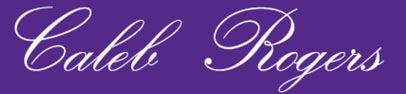
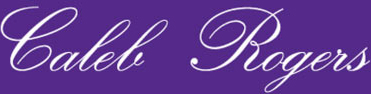
aces

Changed region(s): [[0.504, 0.0638, 1.0, 1.0], [0.0, 0.0638, 0.4744, 0.766]]

diff --git a/_/css/style.css b/_/css/style.css
@@ -1,1 +1,1 @@
-article,aside,details,figcaption,figure,footer,header,hgroup,nav,section{display:block}audio,canvas,video{display:inline-block;*display:inline;*zoom:1}audio:not([controls]){display:none}html{font-size:100%;-webkit-text-size-adjust:100%;-ms-text-size-adjust:100%}a:focus{outline:thin dotted;outline:5px auto -webkit-focus-ring-color;outline-offset:-2px}a:hover,a:active{outline:0}sub,sup{position:relative;font-size:75%;line-height:0;vertical-align:baseline}sup{top:-0.5em}sub{bottom:-0.25em}img{max-width:100%;height:auto;border:0;-ms-interpolation-mode:bicubic}button,input,select,textarea{margin:0;font-size:100%;vertical-align:middle}button,input{*overflow:visible;line-height:normal}button::-moz-focus-inner,input::-moz-focus-inner{padding:0;border:0}button,input[type="button"],input[type="reset"],input[type="submit"]{cursor:pointer;-webkit-appearance:button}input[type="search"]{-webkit-appearance:textfield;-webkit-box-sizing:content-box;-moz-box-sizing:content-box;box-sizing:content-box}input[type="search"]::-webkit-search-decoration,input[type="search"]::-webkit-search-cancel-button{-webkit-appearance:none}textarea{overflow:auto;vertical-align:top}.hidden{display:none!important;visibility:hidden}.visuallyhidden{border:0;clip:rect(0 0 0 0);height:1px;margin:-1px;overflow:hidden;padding:0;position:absolute;width:1px}.visuallyhidden.focusable:active,.visuallyhidden.focusable:focus{clip:auto;height:auto;margin:0;overflow:visible;position:static;width:auto}.invisible{visibility:hidden}html{margin:0}body{margin:0;background:url(../img/greytilet.jpg) no-repeat center center fixed;-webkit-background-size:cover;-moz-background-size:cover;-o-background-size:cover;background-size:cover;font-family:"Helvetica Neue",Helvetica,Arial,sans-serif;color:#333}.clearfix{*zoom:1}.clearfix:before,.clearfix:after{display:table;content:""}.clearfix:after{clear:both}iframe{display:block}.is-hidden{display:none!important}.is-vishidden{position:absolute!important;overflow:hidden;width:1px;height:1px!important;padding:0;border:0;clip:rect(1px,1px,1px,1px)}.is-active{display:block!important}.is-transparent{opacity:0!important}header[role="banner"]{height:56px;margin:2em 0;background:#542c87;text-align:center;border-top:6px solid #fff;border-bottom:6px solid #fff}header[role="banner"]>h1{width:100%;width:980px;margin:0 auto;padding:4px 0;height:48px}header[role="banner"]>h1>img{display:block;width:200px;height:48px}footer{font-size:14px;text-align:center;color:#fff;line-height:24px;padding-bottom:2em}.grid{width:990px;margin:0 auto;padding:0;list-style:none}.grid>li{float:left;-moz-box-sizing:border-box;-webkit-box-sizing:border-box;box-sizing:border-box;width:320px;padding:0 15px 30px}.grid-item{position:relative;width:100%;height:0;padding-bottom:75%;background:#fff}.img{position:absolute;left:0;top:0;-moz-box-sizing:border-box;-webkit-box-sizing:border-box;box-sizing:border-box;width:100%;height:100%;border:6px solid #000;overflow:hidden;background-size:278px auto!important}.img:hover{background-size:278px auto!important}.img-one{background:url('../img/1-sprite.jpg') no-repeat 0 0 transparent}.img-one:hover{background:url('../img/1-sprite.jpg') no-repeat 0 -210px transparent}.img-two{background:url('../img/2-sprite.jpg') no-repeat 0 0 transparent}.img-two:hover{background:url('../img/2-sprite.jpg') no-repeat 0 -210px transparent}.img-three{background:url('../img/3-sprite.jpg') no-repeat 0 0 transparent}.img-three:hover{background:url('../img/3-sprite.jpg') no-repeat 0 -210px transparent}.img-four{background:url('../img/4-sprite.jpg') no-repeat 0 0 transparent}.img-four:hover{background:url('../img/4-sprite.jpg') no-repeat 0 -210px transparent}.img-five{background:url('../img/5-sprite.jpg') no-repeat 0 0 transparent}.img-five:hover{background:url('../img/5-sprite.jpg') no-repeat 0 -210px transparent}.img-six{background:url('../img/6-sprite.jpg') no-repeat 0 0 transparent}.img-six:hover{background:url('../img/6-sprite.jpg') no-repeat 0 -210px transparent}.img-seven{background:url('../img/7-sprite.jpg') no-repeat 0 0 transparent}.img-seven:hover{background:url('../img/7-sprite.jpg') no-repeat 0 -240px transparent}.img-eight{background:url('../img/8-sprite.jpg') no-repeat 0 0 transparent}.img-eight:hover{background:url('../img/8-sprite.jpg') no-repeat 0 -240px transparent}.img-nine{background:url('../img/9-sprite.jpg') no-repeat 0 0 transparent}.img-nine:hover{background:url('../img/9-sprite.jpg') no-repeat 0 -240px transparent}@media print{*{background:transparent!important;color:black!important;box-shadow:none!important;text-shadow:none!important;filter:none!important;-ms-filter:none!important}a,a:visited{text-decoration:underline}a[href]:after{content:" (" attr(href) ")"}abbr[title]:after{content:" (" attr(title) ")"}.ir a:after,a[href^="javascript:"]:after,a[href^="#"]:after{content:""}pre,blockquote{border:1px solid #999;page-break-inside:avoid}thead{display:table-header-group}tr,img{page-break-inside:avoid}img{max-width:100%!important}@page{margin:.5cm}p,h2,h3{orphans:3;widows:3}h2,h3{page-break-after:avoid}}
+article,aside,details,figcaption,figure,footer,header,hgroup,nav,section{display:block}audio,canvas,video{display:inline-block;*display:inline;*zoom:1}audio:not([controls]){display:none}html{font-size:100%;-webkit-text-size-adjust:100%;-ms-text-size-adjust:100%}a:focus{outline:thin dotted;outline:5px auto -webkit-focus-ring-color;outline-offset:-2px}a:hover,a:active{outline:0}sub,sup{position:relative;font-size:75%;line-height:0;vertical-align:baseline}sup{top:-0.5em}sub{bottom:-0.25em}img{max-width:100%;height:auto;border:0;-ms-interpolation-mode:bicubic}button,input,select,textarea{margin:0;font-size:100%;vertical-align:middle}button,input{*overflow:visible;line-height:normal}button::-moz-focus-inner,input::-moz-focus-inner{padding:0;border:0}button,input[type="button"],input[type="reset"],input[type="submit"]{cursor:pointer;-webkit-appearance:button}input[type="search"]{-webkit-appearance:textfield;-webkit-box-sizing:content-box;-moz-box-sizing:content-box;box-sizing:content-box}input[type="search"]::-webkit-search-decoration,input[type="search"]::-webkit-search-cancel-button{-webkit-appearance:none}textarea{overflow:auto;vertical-align:top}.hidden{display:none!important;visibility:hidden}.visuallyhidden{border:0;clip:rect(0 0 0 0);height:1px;margin:-1px;overflow:hidden;padding:0;position:absolute;width:1px}.visuallyhidden.focusable:active,.visuallyhidden.focusable:focus{clip:auto;height:auto;margin:0;overflow:visible;position:static;width:auto}.invisible{visibility:hidden}html{margin:0}body{margin:0;background:url(../img/caleb-bkgd-1_1200.jpg) no-repeat center top fixed;-webkit-background-size:cover;-moz-background-size:cover;-o-background-size:cover;background-size:cover;font-family:"Helvetica Neue",Helvetica,Arial,sans-serif;color:#333}.clearfix{*zoom:1}.clearfix:before,.clearfix:after{display:table;content:""}.clearfix:after{clear:both}iframe{display:block}.is-hidden{display:none!important}.is-vishidden{position:absolute!important;overflow:hidden;width:1px;height:1px!important;padding:0;border:0;clip:rect(1px,1px,1px,1px)}.is-active{display:block!important}.is-transparent{opacity:0!important}header[role="banner"]{-moz-box-sizing:border-box;-webkit-box-sizing:border-box;box-sizing:border-box;width:18.5%;height:68px;margin:2em 0;background:#542c87;border-top:6px solid #fff;border-bottom:6px solid #fff}header[role="banner"]>h1{width:100%;max-width:1600px;margin:0 auto;padding:4px 0;height:48px}header[role="banner"]>h1>img{display:block;height:48px;margin:0 auto}footer{font-size:14px;text-align:center;color:#fff;line-height:24px;padding-bottom:2em}.grid{width:64%;max-width:1600px;margin:0 auto;padding:0;list-style:none}.grid>li{float:left;-moz-box-sizing:border-box;-webkit-box-sizing:border-box;box-sizing:border-box;width:33.3333%;padding:0 1% 30px}.grid-item{position:relative;width:100%;height:0;padding-bottom:75%;background:#fff}.img{position:absolute;left:0;top:0;-moz-box-sizing:border-box;-webkit-box-sizing:border-box;box-sizing:border-box;width:100%;max-width:100%;height:100%;border:6px solid #000}.img>img{width:100%}@media print{*{background:transparent!important;color:black!important;box-shadow:none!important;text-shadow:none!important;filter:none!important;-ms-filter:none!important}a,a:visited{text-decoration:underline}a[href]:after{content:" (" attr(href) ")"}abbr[title]:after{content:" (" attr(title) ")"}.ir a:after,a[href^="javascript:"]:after,a[href^="#"]:after{content:""}pre,blockquote{border:1px solid #999;page-break-inside:avoid}thead{display:table-header-group}tr,img{page-break-inside:avoid}img{max-width:100%!important}@page{margin:.5cm}p,h2,h3{orphans:3;widows:3}h2,h3{page-break-after:avoid}}

diff --git a/_/less/grid.less b/_/less/grid.less
@@ -3,15 +3,16 @@
 
 .grid {
     //max-width: 990px;
-    width: 990px;
+    width: 64%;
+    max-width: 1600px;
     margin: 0 auto;
     padding: 0;
     list-style: none;
     > li {
         float: left;
         .box-sizing(border-box);
-        width: 320px;
-        padding: 0 15px 30px;
+        width: 33.3333%;
+        padding: 0 1% 30px;
     }
 }
 
@@ -29,74 +30,10 @@
     top: 0;
     .box-sizing(border-box);
     width: 100%;
+    max-width: 100%;
     height: 100%;
     border: 6px solid #000;
-    overflow: hidden;
-    background-size: 278px auto !important;
-    &:hover {
-        background-size: 278px auto !important;
-    }
-}
-
-.img-one {
-    background: url('../img/1-sprite.jpg') no-repeat 0 0 transparent;
-    &:hover {
-        background: url('../img/1-sprite.jpg') no-repeat 0 -210px transparent;
-    }
-}
-
-.img-two {
-    background: url('../img/2-sprite.jpg') no-repeat 0 0 transparent;
-    &:hover {
-        background: url('../img/2-sprite.jpg') no-repeat 0 -210px transparent;
-    }
-}
-
-.img-three {
-    background: url('../img/3-sprite.jpg') no-repeat 0 0 transparent;
-    &:hover {
-        background: url('../img/3-sprite.jpg') no-repeat 0 -210px transparent;
-    }
-}
-
-.img-four {
-    background: url('../img/4-sprite.jpg') no-repeat 0 0 transparent;
-    &:hover {
-        background: url('../img/4-sprite.jpg') no-repeat 0 -210px transparent;
-    }
-}
-
-.img-five {
-    background: url('../img/5-sprite.jpg') no-repeat 0 0 transparent;
-    &:hover {
-        background: url('../img/5-sprite.jpg') no-repeat 0 -210px transparent;
-    }
-}
-
-.img-six {
-    background: url('../img/6-sprite.jpg') no-repeat 0 0 transparent;
-    &:hover {
-        background: url('../img/6-sprite.jpg') no-repeat 0 -210px transparent;
-    }
-}
-
-.img-seven {
-    background: url('../img/7-sprite.jpg') no-repeat 0 0 transparent;
-    &:hover {
-        background: url('../img/7-sprite.jpg') no-repeat 0 -240px transparent;
-    }
-}
-
-.img-eight {
-    background: url('../img/8-sprite.jpg') no-repeat 0 0 transparent;
-    &:hover {
-        background: url('../img/8-sprite.jpg') no-repeat 0 -240px transparent;
-    }
-}
-
-.img-nine {
-    background: url('../img/9-sprite.jpg') no-repeat 0 0 transparent;
-    &:hover {
-        background: url('../img/9-sprite.jpg') no-repeat 0 -240px transparent;
+    > img {
+        width: 100%;
     }
 }

diff --git a/index.html b/index.html
@@ -27,32 +27,50 @@
         <ul class="grid clearfix">
             <li>
                 <div class="grid-item">
-                    <div class="img img-one"></div>
+                    <div class="img img-one">
+                        <img src="./_/img/1-1.jpg"/>
+                        <img class="is-hidden" src="./_/img/1-2.jpg"/>
+                    </div>
                 </div>
             </li>
             <li>
                 <div class="grid-item">
-                    <div class="img img-two"></div>
+                    <div class="img img-two">
+                        <img src="./_/img/2-1.jpg"/>
+                        <img class="is-hidden" src="./_/img/2-2.jpg"/>
+                    </div>
                 </div>
             </li>
             <li>
                 <div class="grid-item">
-                    <div class="img img-three"></div>
+                    <div class="img img-three">
+                        <img src="./_/img/3-1.jpg"/>
+                        <img class="is-hidden" src="./_/img/3-2.jpg"/>
+                    </div>
                 </div>
             </li>
             <li>
                 <div class="grid-item">
-                    <div class="img img-four"></div>
+                    <div class="img img-four">
+                        <img src="./_/img/4-1.jpg"/>
+                        <img class="is-hidden" src="./_/img/4-2.jpg"/>
+                    </div>
                 </div>
             </li>
             <li>
                 <div class="grid-item">
-                    <div class="img img-five"></div>
+                    <div class="img img-five">
+                        <img src="./_/img/5-1.jpg"/>
+                        <img class="is-hidden" src="./_/img/5-2.jpg"/>
+                    </div>
                 </div>
             </li>
             <li>
                 <div class="grid-item">
-                    <div class="img img-six"></div>
+                    <div class="img img-six">
+                        <img src="./_/img/6-1.jpg"/>
+                        <img class="is-hidden" src="./_/img/6-2.jpg"/>
+                    </div>
                 </div>
             </li>
         </ul>

diff --git a/_/less/header.less b/_/less/header.less
@@ -2,16 +2,16 @@
 // -----------------------------------------------------------------
 
 header[role="banner"] {
-    height: 56px;
+    .box-sizing(border-box);
+    width: 18.5%;
+    height: 68px;
     margin: 2em 0;
     background: #542c87;
-    text-align: center;
     border-top: 6px solid #fff;
     border-bottom: 6px solid #fff;
     > h1 {
         width: 100%;
-        //max-width: 980px;
-        width: 980px;
+        max-width: 1600px;
         margin: 0 auto;
         padding: 4px 0;
         /*margin: 0;
@@ -21,8 +21,9 @@ header[role="banner"] {
         height: 48px;
         > img {
             display: block;
-            width: 200px;
+            //width: 200px;
             height: 48px;
+            margin: 0 auto;
         }
     }
 }

diff --git a/_/less/base.less b/_/less/base.less
@@ -6,7 +6,8 @@ html {
 
 body {
     margin: 0;
-    background: url(../img/greytilet.jpg) no-repeat center center fixed;
+    //border-top: 6px solid @purple;
+    background: url(../img/caleb-bkgd-1_1200.jpg) no-repeat center top fixed;
     -webkit-background-size: cover;
     -moz-background-size: cover;
     -o-background-size: cover;
@@ -78,11 +79,11 @@ body {
 }
 
 blockquote {
-    
+
 }
 
 figure {
-    
+
 }
 
 iframe {

diff --git a/_/less/variables.less b/_/less/variables.less
@@ -21,6 +21,7 @@
 @white:                 #fff;
 
 // Accent colors
+@purple:                #542c87;
 
 
 // Typography
